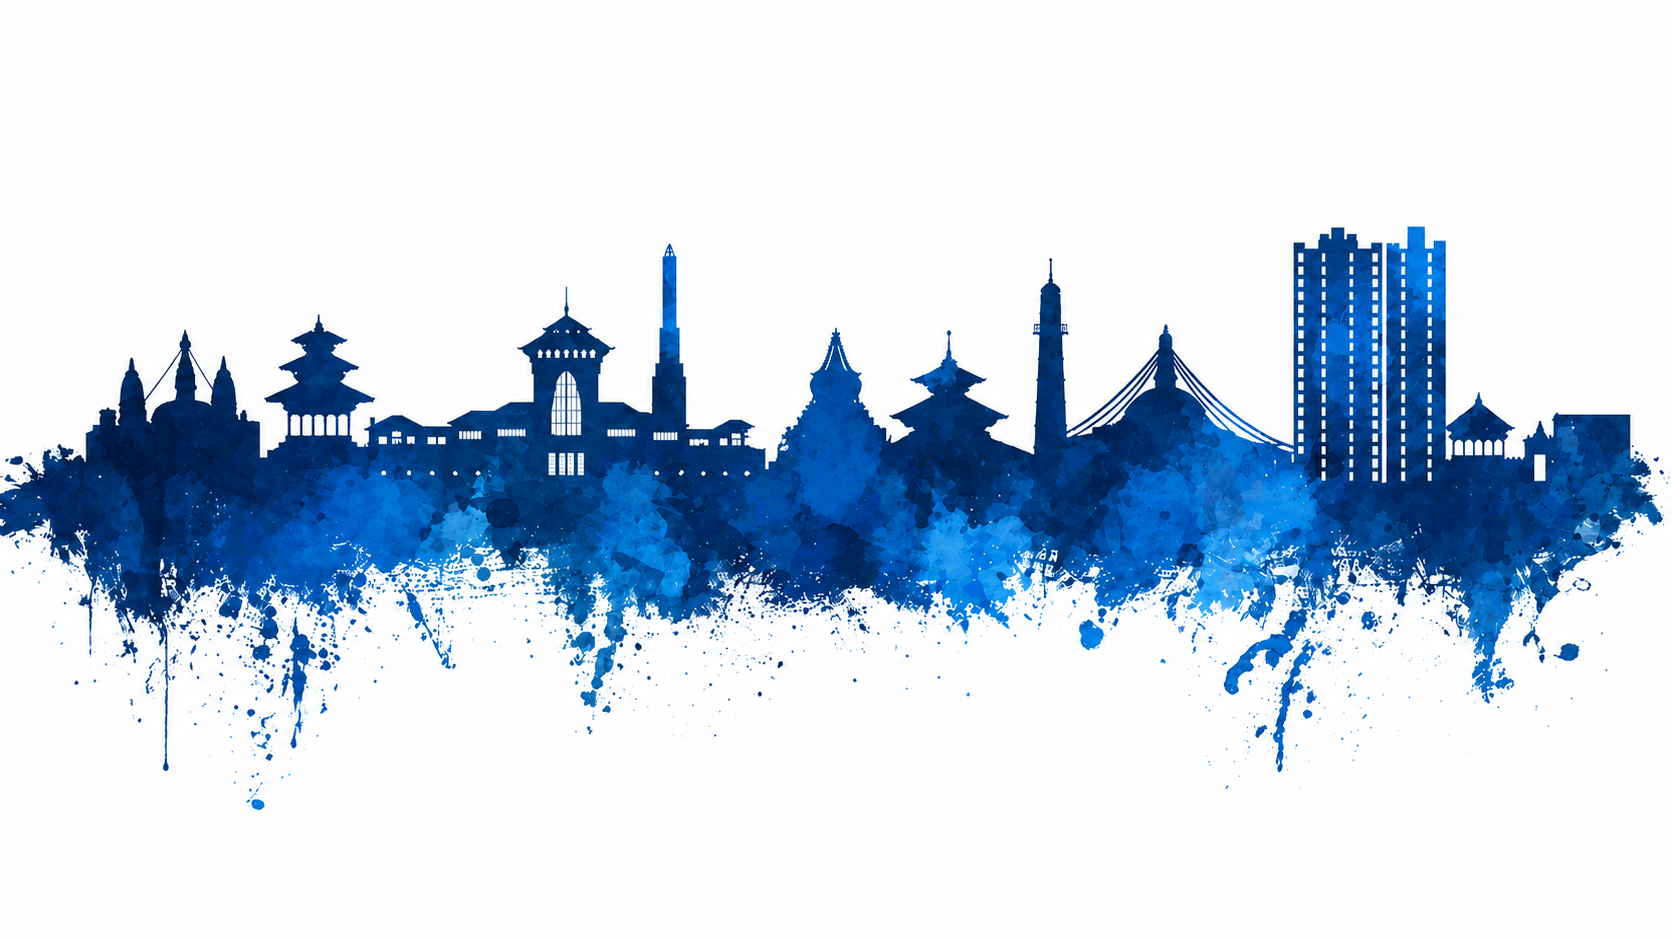
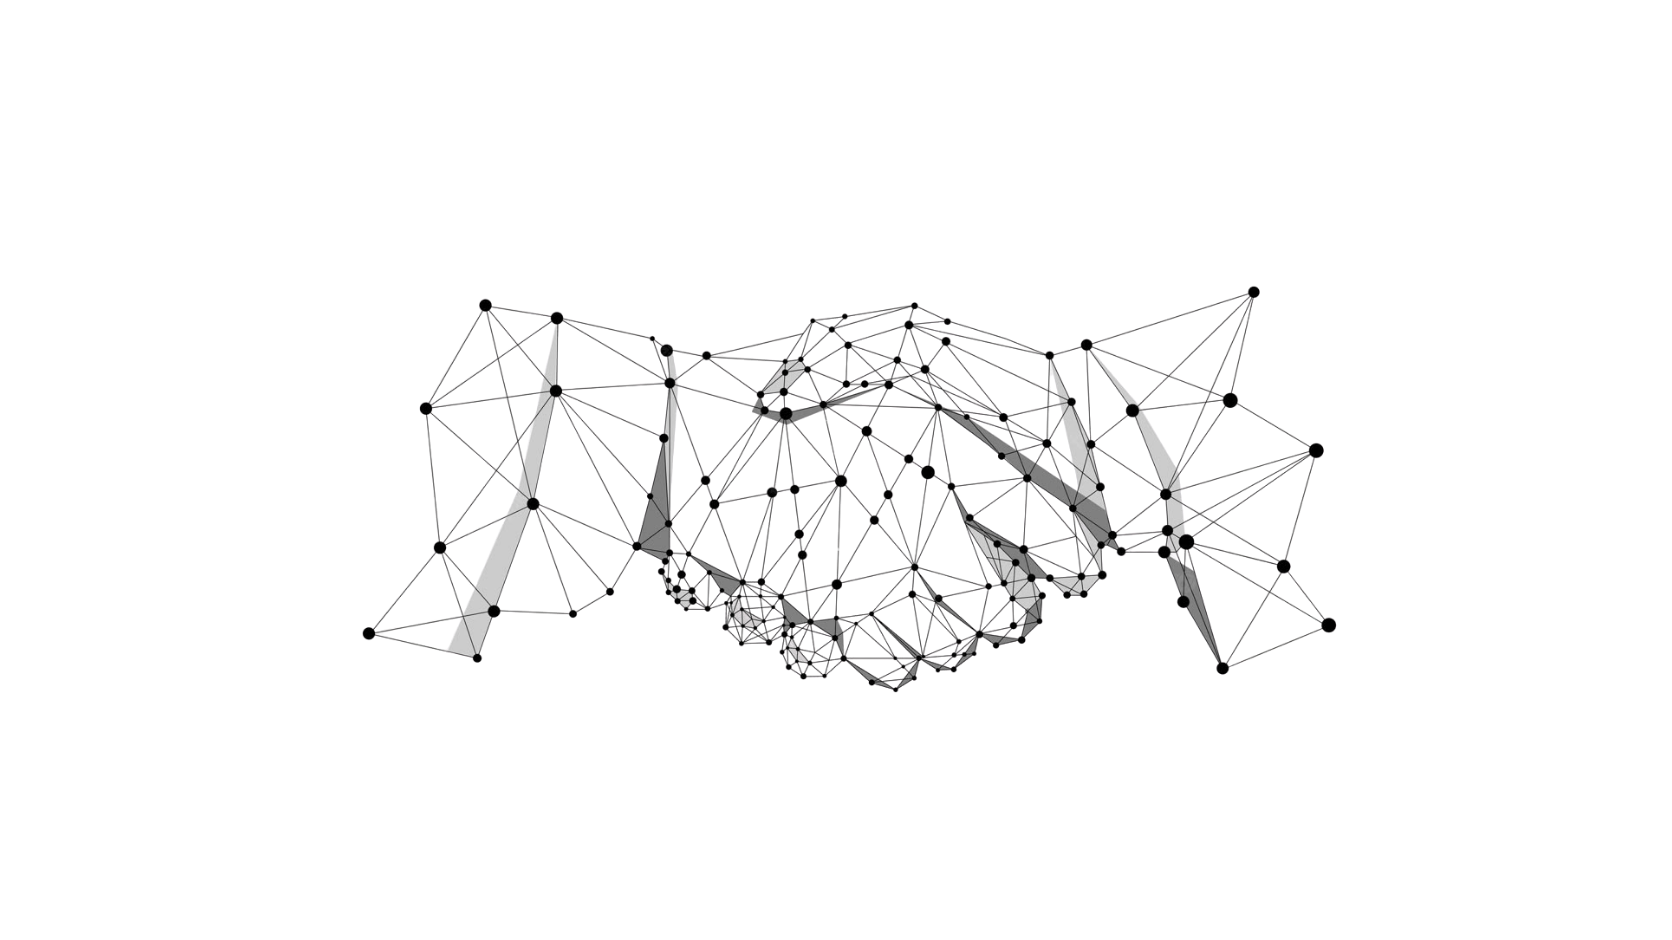
fix:issues

Changed region(s): [[0.0, 0.2468, 0.9952, 0.8021], [0.1244, 0.833, 0.1555, 0.8638]]

diff --git a/components/what-we-do/PortfolioSection/PortfolioSection.tsx b/components/what-we-do/PortfolioSection/PortfolioSection.tsx
@@ -23,6 +23,9 @@ export default function PortfolioSection({
   portfolioItems,
   sectorTabs,
 }: PortfolioSectionProps) {
+  const shouldUseFeaturedLayout = (item: PortfolioItem) =>
+    item.isFeatured && item.sector !== "Others";
+
   const getSectorCount = (key: Sector | "All") => {
     if (key === "All") return portfolioItems.length;
     return portfolioItems.filter((item) => item.sector === key).length;
@@ -85,7 +88,7 @@ export default function PortfolioSection({
                             key={item.name}
                             className="w-[86vw] shrink-0 snap-center sm:w-[70vw]"
                           >
-                            {item.isFeatured ? (
+                            {shouldUseFeaturedLayout(item) ? (
                               <FeaturedPortfolioCard item={item} />
                             ) : (
                               <PortfolioCard item={item} />
@@ -97,7 +100,7 @@ export default function PortfolioSection({
 
                     <div className="hidden md:grid grid-cols-2 gap-5 lg:grid-cols-3">
                       {sectorItems.map((item) =>
-                        item.isFeatured ? (
+                        shouldUseFeaturedLayout(item) ? (
                           <FeaturedPortfolioCard key={item.name} item={item} />
                         ) : (
                           <PortfolioCard key={item.name} item={item} />
@@ -120,7 +123,7 @@ export default function PortfolioSection({
                     key={item.name}
                     className="w-[86vw] shrink-0 snap-center sm:w-[70vw]"
                   >
-                    {item.isFeatured ? (
+                    {shouldUseFeaturedLayout(item) ? (
                       <FeaturedPortfolioCard item={item} />
                     ) : (
                       <PortfolioCard item={item} />
@@ -132,7 +135,7 @@ export default function PortfolioSection({
 
             <div className="hidden md:grid grid-cols-2 gap-5 lg:grid-cols-3">
               {filteredItems.map((item) =>
-                item.isFeatured ? (
+                shouldUseFeaturedLayout(item) ? (
                   <FeaturedPortfolioCard key={item.name} item={item} />
                 ) : (
                   <PortfolioCard key={item.name} item={item} />

diff --git a/components/what-we-do/PorfolioCard.tsx b/components/what-we-do/PorfolioCard.tsx
@@ -21,6 +21,10 @@ const PortfolioCard: FC<PortfolioCardProps> = ({ item }) => {
     "maruti-cements": "/portfolio/Manufacturing/maruti cement.jpg",
     "shubhshree-agni": "/portfolio/Manufacturing/shubhshree agni cement.jpg",
     "mahashakti-cement": "/portfolio/Manufacturing/mahashakti cement.jpg",
+    "premier-distillery": "/portfolio/Manufacturing/distillery.png",
+    "premier-steel": "/portfolio/Manufacturing/premier steel .png",
+    "sopan-multiple": "/portfolio/Others/sopan.png",
+    "annapurna-maccha": "/portfolio/Manufacturing/annapurnamaccha.png",
     "mero-kisan": "/portfolio/agro/mero kishan.png",
   };
   const headerImage = imageById[item.id];
@@ -54,18 +58,17 @@ const PortfolioCard: FC<PortfolioCardProps> = ({ item }) => {
 
   return (
     <article className="group relative flex h-full flex-col overflow-hidden border border-[#d8e0ea] bg-white font-montserrat transition-all duration-300 hover:-translate-y-1.5 hover:border-[#8D1E39]/65 hover:shadow-[0_24px_56px_rgba(26,46,74,0.16)]">
-      <div className="relative h-[170px] overflow-hidden bg-gradient-to-br from-[#112845] via-[#1c3e66] to-[#173053] p-4">
-        <div className="absolute inset-0 bg-[radial-gradient(circle_at_18%_18%,rgba(255,255,255,0.18),transparent_45%)]" />
+      <div className="relative h-[170px] overflow-hidden border-b border-[#8D1E39] bg-white p-4">
         {headerImage ? (
           <Image
             src={headerImage}
             alt={item.name}
             fill
-            className="object-cover transition-transform duration-500 group-hover:scale-[1.03]"
+            className="object-contain object-top p-3 transition-transform duration-500 group-hover:scale-[1.03]"
             sizes="(max-width: 1024px) 100vw, 33vw"
           />
         ) : null}
-        <div className="absolute inset-0 bg-gradient-to-t from-[#112845]/60 via-transparent to-transparent" />
+        <div className="absolute inset-0 bg-gradient-to-t from-white/10 via-transparent to-transparent" />
         <span
           className={`absolute right-3 top-3 border px-3 py-1 text-[10px] font-semibold tracking-[0.06em] uppercase backdrop-blur-sm ${badgeTypeClasses[item.badgeType]}`}
         >

diff --git a/components/what-we-do/FeaturedPortfolioCard.tsx b/components/what-we-do/FeaturedPortfolioCard.tsx
@@ -12,27 +12,18 @@ const FeaturedPortfolioCard: FC<FeaturedPortfolioCardProps> = ({ item }) => {
   return (
     <div className="col-span-1 md:col-span-2 lg:col-span-3 xl:col-span-4">
       <article className="group relative grid overflow-hidden border border-[#d8e0ea] bg-white font-montserrat transition-all duration-300 hover:border-[#8D1E39]/65 hover:shadow-[0_24px_56px_rgba(26,46,74,0.14)] lg:grid-cols-[300px_1fr]">
-        <div className="relative overflow-hidden bg-gradient-to-br from-[#101f36] via-[#173053] to-[#1f4066] p-8">
+        <div className="relative overflow-hidden bg-white p-8">
           <Image
-            src="/portfolio/Others/sopan multiple.png"
+            src="/portfolio/Others/sopan.png"
             alt={item.name}
             fill
-            className="object-cover transition-transform duration-500 group-hover:scale-[1.03]"
+            className="object-contain object-top p-4 transition-transform duration-500 group-hover:scale-[1.03]"
             sizes="(max-width: 1024px) 100vw, 300px"
           />
-          <div className="absolute inset-0 bg-gradient-to-t from-[#0d1a2f]/70 via-[#0d1a2f]/20 to-transparent" />
+          <div className="absolute inset-0 bg-gradient-to-t from-white/10 via-transparent to-transparent" />
           <div className="absolute -right-10 -top-10 h-44 w-44 bg-[#C4785A]/10" />
           <div className="absolute -bottom-10 -left-10 h-36 w-36 bg-[#8AAFD4]/10" />
-          <div className="relative z-10 flex h-full flex-col items-center justify-center text-center">
-            <div className="mb-3 border border-white/15 bg-white/10 px-5 py-4 backdrop-blur-sm">
-              <p className="font-agatho text-[15px] leading-[1.35] tracking-[0.04em] text-white">
-                {item.shortName}
-              </p>
-            </div>
-            <span className="border border-[#C4785A]/30 bg-[#C4785A]/20 px-3 py-1 text-[10px] tracking-[0.06em] uppercase text-[#F3C3AE]">
-              {item.badge}
-            </span>
-          </div>
+          <div className="relative z-10 h-full" />
         </div>
 
         <div className="p-7 sm:p-8 lg:p-10">

diff --git a/app/firm/page.tsx b/app/firm/page.tsx
@@ -6,13 +6,13 @@ export default function WhoWeAreFirmPage() {
   return (
     <main className="w-full bg-white pb-6 sm:pb-8 md:pb-10">
       <Pagegoer
-        title={["Independent Capital. Enduring Partnerships."]}
-        description="Genesis Ventures partners with ambitious founders and long-term investors through disciplined capital allocation, transparent communication, and execution-focused support."
+        title={["Investing in Vision.", "Building Long-Term Value."]}
+        description="A forward-thinking investment firm focused on strategic growth and sustainable partnerships."
         crumbs={[
           { label: "Home", href: "/" },
           { label: "Firm" },
         ]}
-        backgroundImage="/gif/no.png"
+        backgroundImage="/gif/firm.gif"
         backgroundImageClassName="object-cover opacity-30"
         heightClassName="h-[80vh]"
         overlayClassName="bg-transparent"

diff --git a/app/what-we-do/investment-phylosophy/page.tsx b/app/what-we-do/investment-phylosophy/page.tsx
@@ -7,7 +7,7 @@ export default function InvestmentPhylosophyPage() {
   return (
     <main className="bg-white text-[#2c2c34] font-montserrat">
       <Pagehero
-        title={["Conviction-Led Investing,", "Built For Long-Term Value."]}
+        title={["Disciplined Thinking. Strategic Capital. Long-Term Value."]}
         description="Our investment philosophy is built on disciplined underwriting, long-term partnership, and transparent decision-making across market cycles."
         crumbs={[
           { label: "Home", href: "/" },
